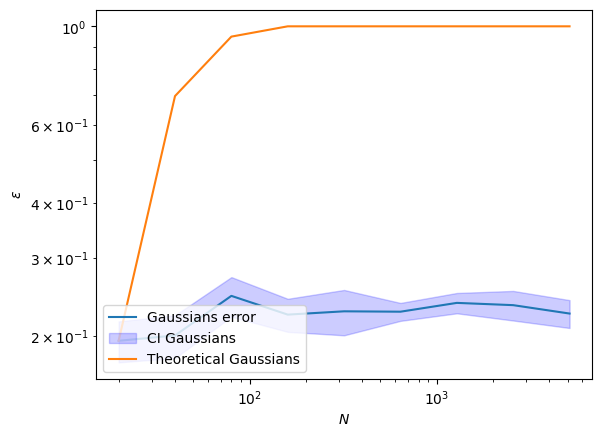
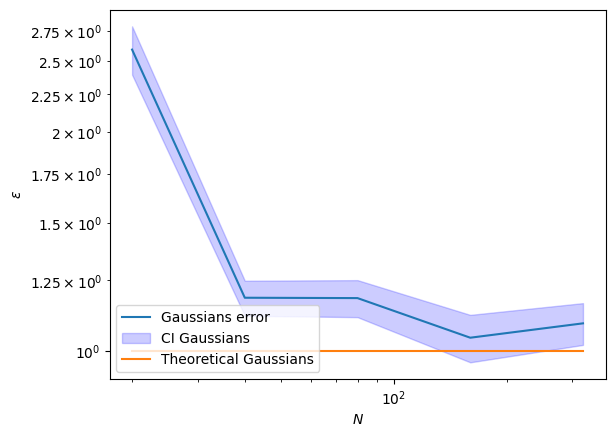
Fixed bounds in 1D

diff --git a/gEDMDtests/gEDMD_Dictionary_Limit_All.py b/gEDMDtests/gEDMD_Dictionary_Limit_All.py
@@ -23,8 +23,8 @@ plt.ion()
 M_exact = 100000
 M_approx = 10000
 min_number_of_observables = 20
-boxes1 = 200
-boxes2 = 100
+boxes1 = 50
+boxes2 = 25
 boxes = np.array([boxes1, boxes2])
 max_number_of_observables = boxes1 * boxes2
 
@@ -129,7 +129,7 @@ gedmd_helper.plot_errors_dictionary_limit(
 
 # define domain
 bounds = np.array([[-2, 2]])
-boxes = np.array(max_number_of_observables)
+boxes = np.array([max_number_of_observables])
 Omega = domain.discretization(bounds, boxes)
 
 # define system
